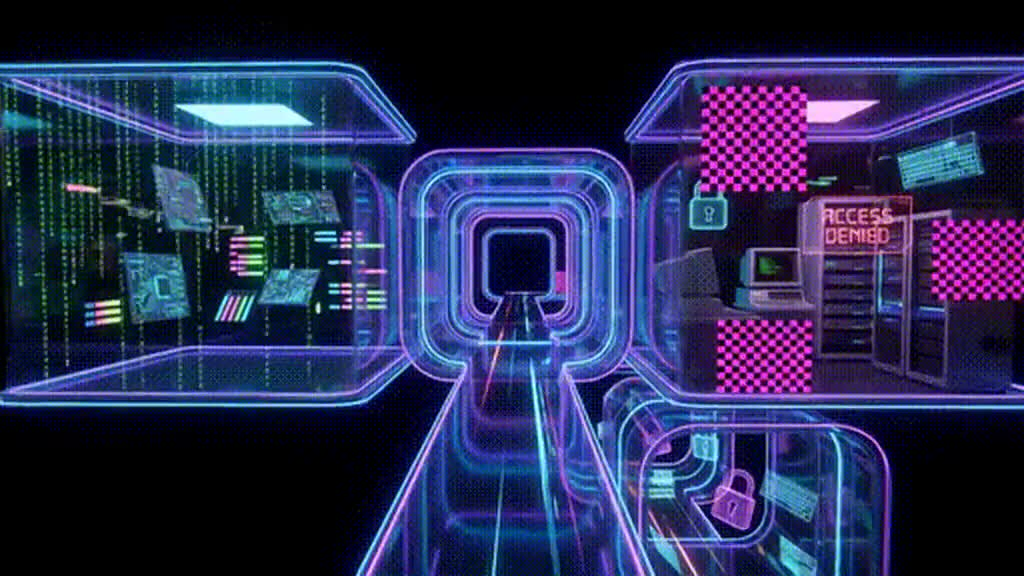
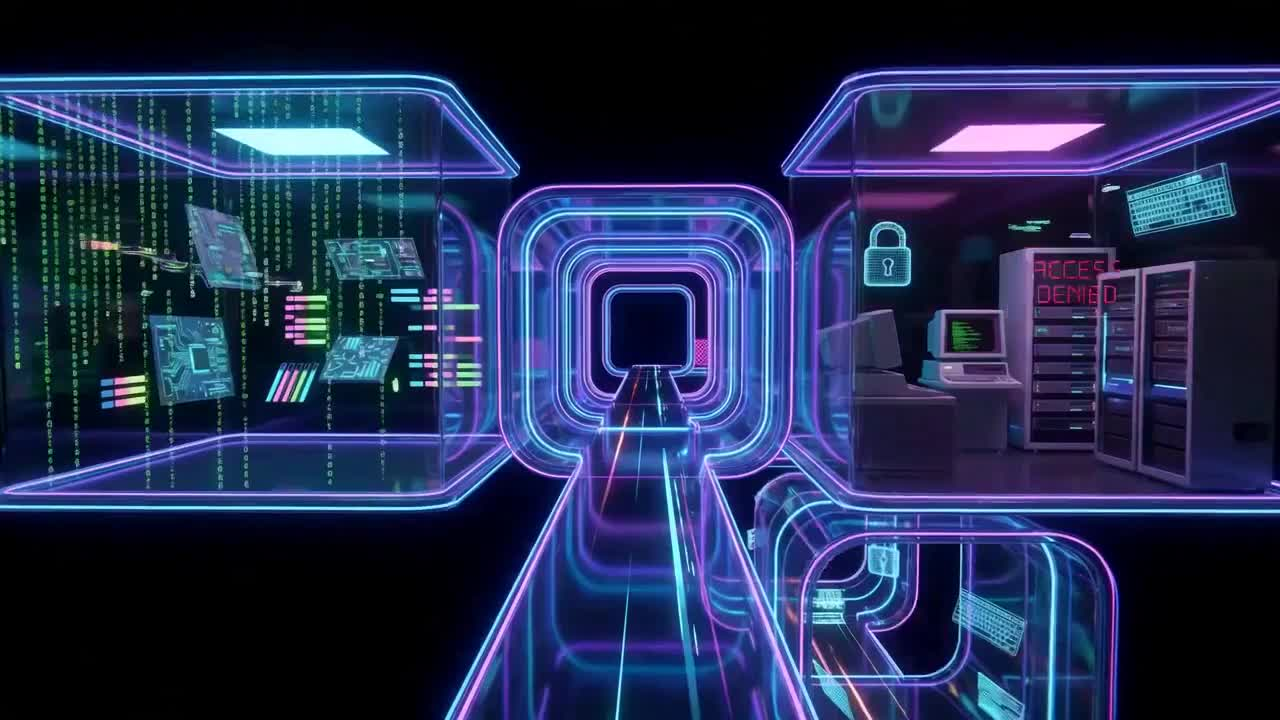
Improve video background playback for smoother scrolling animation
Replace video element with a canvas-based renderer for smoother video playback and implement throttle seek to prevent choppy animation.

Replit-Commit-Author: Agent
Replit-Commit-Session-Id: cde06032-2513-49d9-8e21-656b05439f98
Replit-Commit-Checkpoint-Type: full_checkpoint
Replit-Commit-Event-Id: 3b5b5885-4ea7-4b35-8582-8bed784070fa
Replit-Commit-Screenshot-Url: https://storage.googleapis.com/screenshot-production-us-central1/8eb5a6cc-aee8-4a53-9ecd-d10af77b8158/cde06032-2513-49d9-8e21-656b05439f98/bpn4eK1
Replit-Helium-Checkpoint-Created: true

diff --git a/artifacts/sprizzle/src/components/VideoBackground.tsx b/artifacts/sprizzle/src/components/VideoBackground.tsx
@@ -5,59 +5,178 @@ import { ScrollTrigger } from "gsap/ScrollTrigger";
 gsap.registerPlugin(ScrollTrigger);
 
 export default function VideoBackground() {
-  const videoRef = useRef<HTMLVideoElement>(null);
-  const triggerRef = useRef<ScrollTrigger | null>(null);
+  const canvasRef = useRef<HTMLCanvasElement>(null);
+  const videoRef = useRef<HTMLVideoElement | null>(null);
   const [posterVisible, setPosterVisible] = useState(true);
 
   useEffect(() => {
-    const video = videoRef.current;
-    if (!video) return;
+    const canvas = canvasRef.current;
+    if (!canvas) return;
 
-    const setup = () => {
-      if (triggerRef.current) return;
-      triggerRef.current = ScrollTrigger.create({
-        trigger: document.body,
-        start: "top top",
-        end: "bottom bottom",
-        scrub: true,
-        onUpdate: (self) => {
-          if (video.duration && isFinite(video.duration)) {
-            video.currentTime = video.duration * self.progress;
-          }
-        },
-      });
+    const ctx = canvas.getContext("2d");
+    if (!ctx) return;
+
+    // Create video element (hidden in DOM for decoding)
+    const video = document.createElement("video");
+    video.src = "/scroll-bg.mp4";
+    video.preload = "auto";
+    video.muted = true;
+    video.playsInline = true;
+    video.style.position = "absolute";
+    video.style.visibility = "hidden";
+    video.style.pointerEvents = "none";
+    video.style.width = "1px";
+    video.style.height = "1px";
+    document.body.appendChild(video);
+    videoRef.current = video;
+
+    // Canvas sizing with DPR
+    const dpr = Math.min(window.devicePixelRatio || 1, 2);
+    let canvasW = 0;
+    let canvasH = 0;
+
+    const setCanvasSize = () => {
+      const w = window.innerWidth;
+      const h = window.innerHeight;
+      canvasW = w;
+      canvasH = h;
+      canvas.width = w * dpr;
+      canvas.height = h * dpr;
+      canvas.style.width = `${w}px`;
+      canvas.style.height = `${h}px`;
+      ctx.setTransform(dpr, 0, 0, dpr, 0, 0);
+    };
+    setCanvasSize();
+
+    // Smooth scroll progress state
+    const smooth = { current: 0 };
+    const target = { current: 0 };
+    let isSeeking = false;
+    let lastSeekTime = 0;
+    let running = true;
+    let rafId: number;
+
+    const drawVideo = () => {
+      if (!video || video.readyState < 2) return;
+      const vW = video.videoWidth;
+      const vH = video.videoHeight;
+      if (!vW || !vH) return;
+
+      const vAspect = vW / vH;
+      const cAspect = canvasW / canvasH;
+
+      let sx: number, sy: number, sW: number, sH: number;
+      if (cAspect > vAspect) {
+        sW = canvasW;
+        sH = canvasW / vAspect;
+        sx = 0;
+        sy = (canvasH - sH) / 2;
+      } else {
+        sH = canvasH;
+        sW = canvasH * vAspect;
+        sx = (canvasW - sW) / 2;
+        sy = 0;
+      }
+
+      ctx.clearRect(0, 0, canvasW, canvasH);
+      ctx.drawImage(video, sx, sy, sW, sH);
     };
 
-    const onLoaded = () => {
-      setPosterVisible(false);
-      setup();
+    // Animation loop: lerp + throttle + draw
+    const loop = () => {
+      if (!running) return;
+
+      // Smooth scroll progress with lerp
+      const diff = target.current - smooth.current;
+      smooth.current += diff * 0.12; // Lerp factor: higher = snappier, lower = smoother
+
+      // Update video time (throttled to avoid seek spam)
+      const now = performance.now();
+      if (
+        video.duration &&
+        isFinite(video.duration) &&
+        !isSeeking &&
+        now - lastSeekTime > 50 // Min 50ms between seeks
+      ) {
+        const targetTime = video.duration * smooth.current;
+        const timeDiff = Math.abs(video.currentTime - targetTime);
+        if (timeDiff > 0.03) { // 3 frame threshold at 24fps
+          isSeeking = true;
+          lastSeekTime = now;
+          video.currentTime = targetTime;
+        }
+      }
+
+      // Draw current frame
+      drawVideo();
+
+      rafId = requestAnimationFrame(loop);
     };
 
-    if (video.readyState >= 1) {
-      onLoaded();
-    } else {
-      video.addEventListener("loadedmetadata", onLoaded, { once: true });
-      video.addEventListener("loadeddata", onLoaded, { once: true });
-    }
+    // ScrollTrigger drives target progress
+    const trigger = ScrollTrigger.create({
+      trigger: document.body,
+      start: "top top",
+      end: "bottom bottom",
+      scrub: true,
+      onUpdate: (self) => {
+        target.current = self.progress;
+      },
+    });
+
+    // Resize handler
+    const onResize = () => {
+      setCanvasSize();
+      drawVideo();
+    };
+    window.addEventListener("resize", onResize);
+
+    // Video ready
+    const onReady = () => {
+      if (video.readyState >= 2) {
+        setPosterVisible(false);
+        setCanvasSize();
+        drawVideo();
+        if (!rafId) {
+          rafId = requestAnimationFrame(loop);
+        }
+      }
+    };
+
+    const onSeeked = () => {
+      isSeeking = false;
+      drawVideo();
+    };
+
+    video.addEventListener("loadedmetadata", onReady, { once: true });
+    video.addEventListener("loadeddata", onReady, { once: true });
+    video.addEventListener("canplaythrough", onReady, { once: true });
+    video.addEventListener("seeked", onSeeked);
+
+    // Fallback: start loop anyway
+    rafId = requestAnimationFrame(loop);
 
     return () => {
-      triggerRef.current?.kill();
-      triggerRef.current = null;
+      running = false;
+      cancelAnimationFrame(rafId);
+      window.removeEventListener("resize", onResize);
+      trigger.kill();
+      video.removeEventListener("seeked", onSeeked);
+      if (video.parentNode) {
+        video.parentNode.removeChild(video);
+      }
+      video.pause();
+      video.src = "";
+      video.load();
     };
   }, []);
 
   return (
     <div className="fixed inset-0 z-0" style={{ backgroundColor: "#0a0a0a" }}>
-      <video
-        ref={videoRef}
-        src="/scroll-bg.mp4"
-        preload="auto"
-        muted
-        playsInline
-        poster="/poster.jpg"
-        className="absolute inset-0 w-full h-full object-cover"
+      <canvas
+        ref={canvasRef}
+        className="absolute inset-0 w-full h-full"
         style={{ pointerEvents: "none" }}
-        data-testid="scroll-video"
       />
       {posterVisible && (
         <img